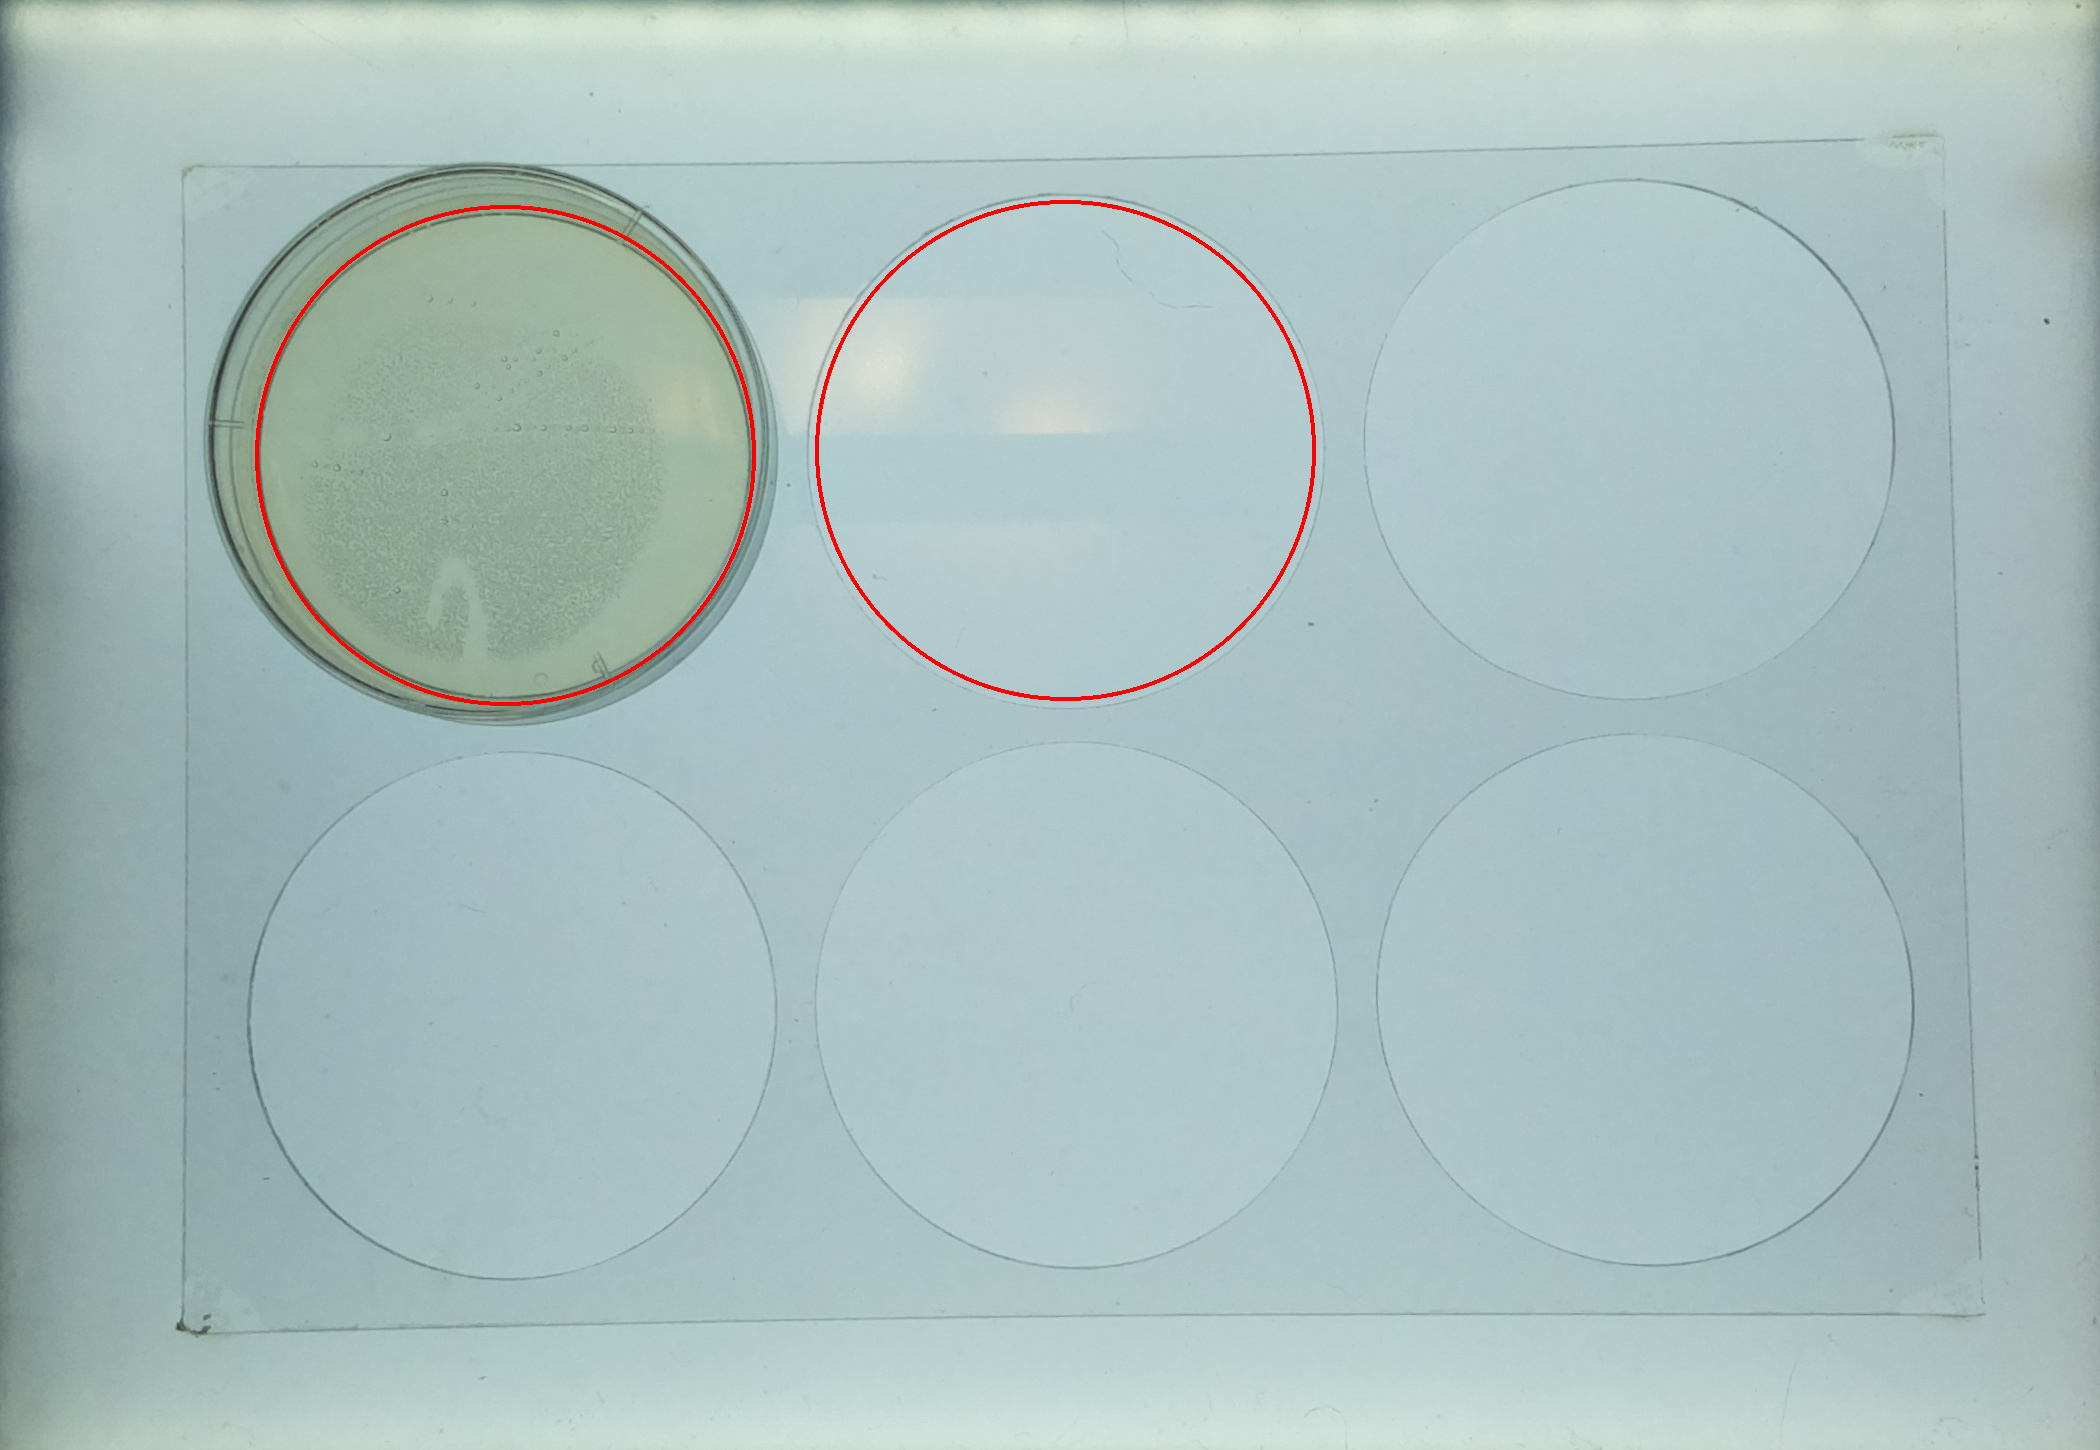
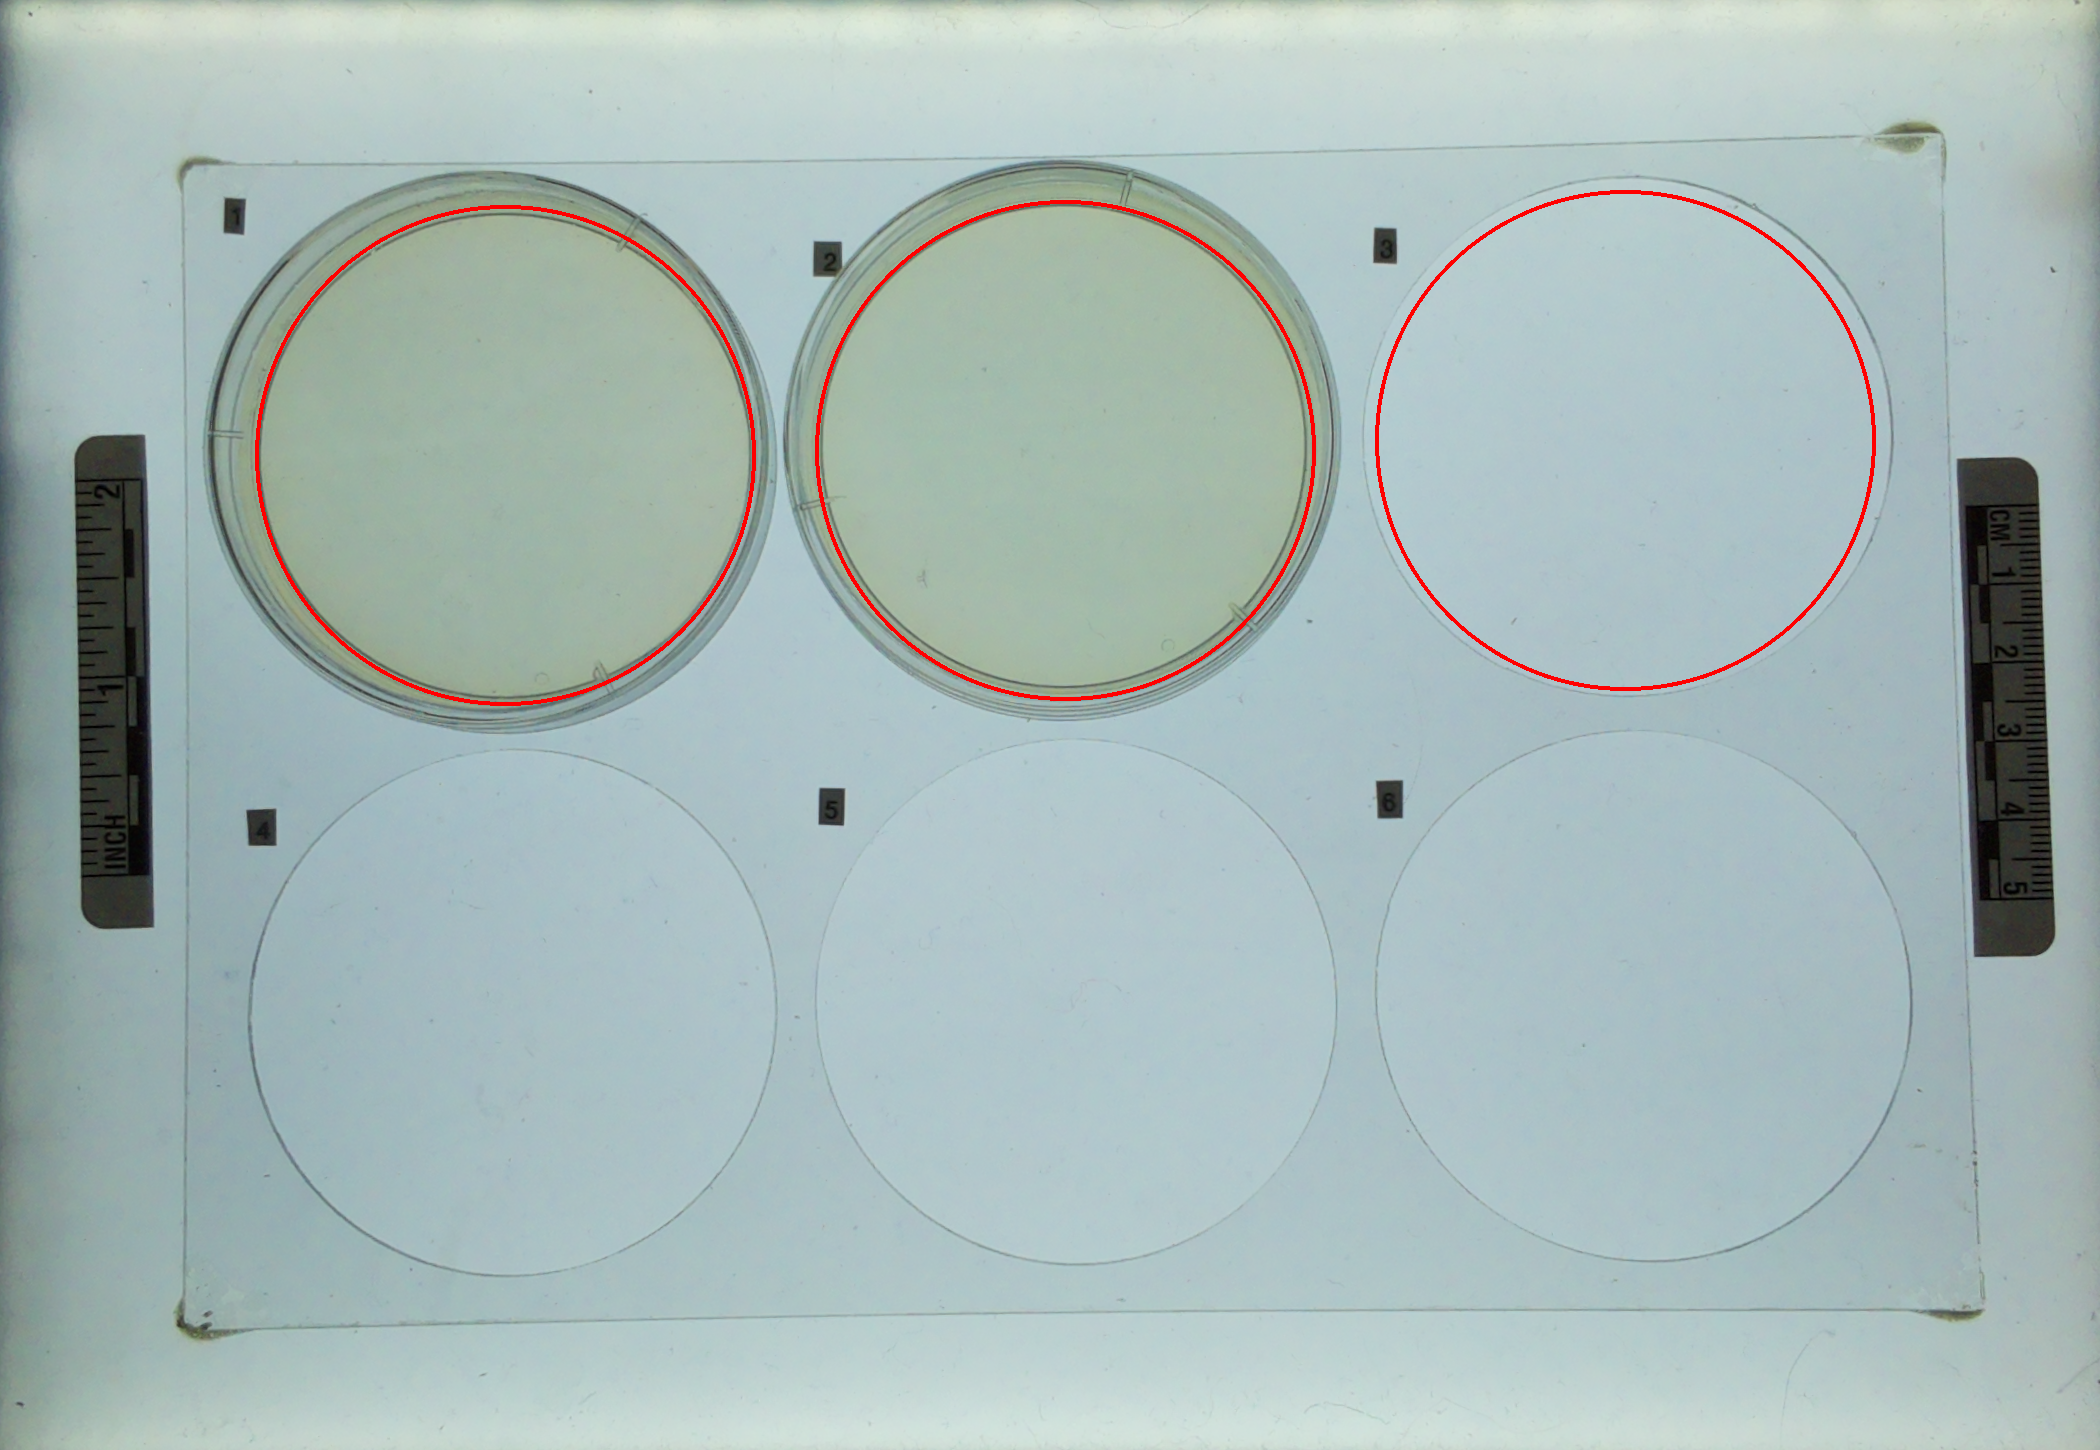
feat: add plate_start_time and fix gif path

diff --git a/firebase_io/firebase_uploader.py b/firebase_io/firebase_uploader.py
@@ -3,15 +3,24 @@ from firebase_admin import credentials, storage, firestore
 import os
 import config
 
-def upload_snippet_to_firebase(snippet_paths, plates, chamber, timestamp,
-                               mean_intensities, green_object_areas):
+def upload_snippet_to_firebase(
+    snippet_paths,
+    plates,
+    chamber,
+    timestamp,
+    mean_intensities,
+    green_object_areas,
+    plate_start_times,
+):
     """
     snippet_paths: list of local image paths (one per plate)
     plates: list of plate IDs (e.g. ["PLT-001", "PLT-002"])
     chamber: chamber ID string
-    timestamp: ISO timestamp string
+    timestamp: ISO timestamp string (capture time)
     mean_intensities: list of (mean_red, mean_green, mean_blue) or single tuple
     green_object_areas: list of numeric areas or single value
+    plate_start_times: ISO timestamp string or list of strings
+                       (when plate/control was installed), aligned with plates
     """
 
     # Normalize inputs to lists
@@ -36,16 +45,25 @@ def upload_snippet_to_firebase(snippet_paths, plates, chamber, timestamp,
     # --- CULTURE handling: associate one culture per snippet/plate ---
     cultures = config.CULTURE  # may be a list or a single string
 
-    # Normalize to list
     if isinstance(cultures, str):
         cultures = [cultures]
 
-    # If only one culture given, reuse it for all snippets
     if len(cultures) == 1 and len(snippet_paths) > 1:
         cultures = cultures * len(snippet_paths)
     elif len(cultures) != len(snippet_paths):
         raise ValueError(
             "Length of config.CULTURE must be 1 or equal to number of snippet_paths."
+        )
+
+    # --- PLATE START TIME handling ---
+    if isinstance(plate_start_times, str):
+        plate_start_times = [plate_start_times]
+
+    if len(plate_start_times) == 1 and len(snippet_paths) > 1:
+        plate_start_times = plate_start_times * len(snippet_paths)
+    elif len(plate_start_times) != len(snippet_paths):
+        raise ValueError(
+            "Length of plate_start_times must be 1 or equal to number of snippet_paths."
         )
 
     # --- Init Firebase app once ---
@@ -77,9 +95,9 @@ def upload_snippet_to_firebase(snippet_paths, plates, chamber, timestamp,
 
     chamber_doc_ref.set(chamber_fields, merge=True)
 
-    # --- Loop over snippets / plates / cultures ---
-    for snippet_path, plate, intensity, object_area, culture in zip(
-        snippet_paths, plates, mean_intensities, green_object_areas, cultures
+    # --- Loop over snippets / plates / cultures / start times ---
+    for snippet_path, plate, intensity, object_area, culture, plate_start_time in zip(
+        snippet_paths, plates, mean_intensities, green_object_areas, cultures, plate_start_times
     ):
         if intensity is None:
             print(f"Skipping plate {plate}: mean_intensities is None for {snippet_path}")
@@ -94,7 +112,7 @@ def upload_snippet_to_firebase(snippet_paths, plates, chamber, timestamp,
         local_path = snippet_path.replace("\\", "/")
         filename = os.path.basename(local_path)
 
-        # Storage path for this plate
+        # Storage path for this plate snippet
         firebase_snippet_path = f"{chamber}/{plate}/{filename}"
 
         # Upload image
@@ -102,12 +120,17 @@ def upload_snippet_to_firebase(snippet_paths, plates, chamber, timestamp,
         blob.upload_from_filename(local_path, content_type="image/jpeg")
         print(f"Image uploaded to Firebase Storage at '{firebase_snippet_path}' for plate {plate}")
 
+        # --- Deterministic GIF path for this plate ---
+        gif_path = f"output_gif_folder/{plate}.gif"
+
         # Plate-level fields
         plate_fields = {
             "last_update": timestamp,
             "plate": plate,
             "substrate": config.SUBSTRATE,
-            "culture": culture,  # 👈 culture for this plate/snippet
+            "culture": culture,
+            "plate_start_time": plate_start_time,
+            "gif_path": gif_path,
             "most_recent_snippet_path": firebase_snippet_path,
         }
 
@@ -121,7 +144,8 @@ def upload_snippet_to_firebase(snippet_paths, plates, chamber, timestamp,
             "object_area": object_area,
             "plate": plate,
             "chamber": chamber,
-            "culture": culture,  # 👈 also store on snippet document
+            "culture": culture,
+            "plate_start_time": plate_start_time,
         }
 
         # Plate doc under chamber

diff --git a/config.py b/config.py
@@ -12,6 +12,7 @@ CIRCLE_COORDS = [
 # --- Experiment Metadata ---
 SUBSTRATE = "Agar plate 100mm diameter"
 CULTURE = ["Control", "black morel, liquid culture"]
+PLATE_START_TIME = ["2024-06-01T10:00:00Z", "2024-06-01T10:00:00Z"]
 # --- Identification ---
 CHAMBER = "CHA-8BEA5D1"
 PLATE_ID = ["SMP-9414B8", "SMP-837C0C"]

diff --git a/core/draw_circles_on_image.py b/core/draw_circles_on_image.py
@@ -23,6 +23,7 @@ if __name__ == "__main__":
     circles = [
         (505, 455, 250),
         (1065, 450, 250),
+        (1625, 440, 250),
     ]
 
     draw_circles_on_image(image_path, circles)
